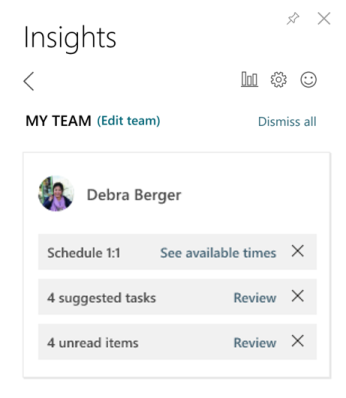
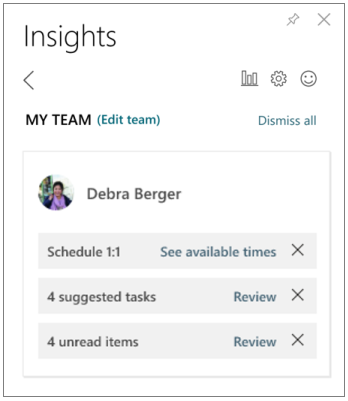
Mgr edits

diff --git a/WorkplaceAnalytics/MyAnalytics/Overview/Privacy-Guide.md b/WorkplaceAnalytics/MyAnalytics/Overview/Privacy-Guide.md
@@ -119,7 +119,7 @@ People can control this setting in their Outlook settings. To show these signals
 
 MyAnalytics helps people managers improve relationships with team members by providing assistance in the flow of their work in Office 365. For example, the [Catch up with your team](../use/add-in.md#catch-up-with-your-team) feature in the [Insights add-in](..\Use\add-in.md) helps managers schedule regular 1:1 time, respond quickly to unread emails, and more.
 
-   ![Team member card Debra](../../images/mya/use/connect-actions-debra-75.png)
+   ![Team member card Debra](../../images/mya/use/connect-actions-debra-75-90.png)
 
 All assistance for managers in MyAnalytics relies exclusively on information from the manager's own mailbox; managers do not receive any incremental information from team members' mailboxes that could be used for performance management. For example: managers can use this feature to review important unread emails in their inbox _from_ team members, but they cannot see whether team members have read emails that the manager has sent.
 
